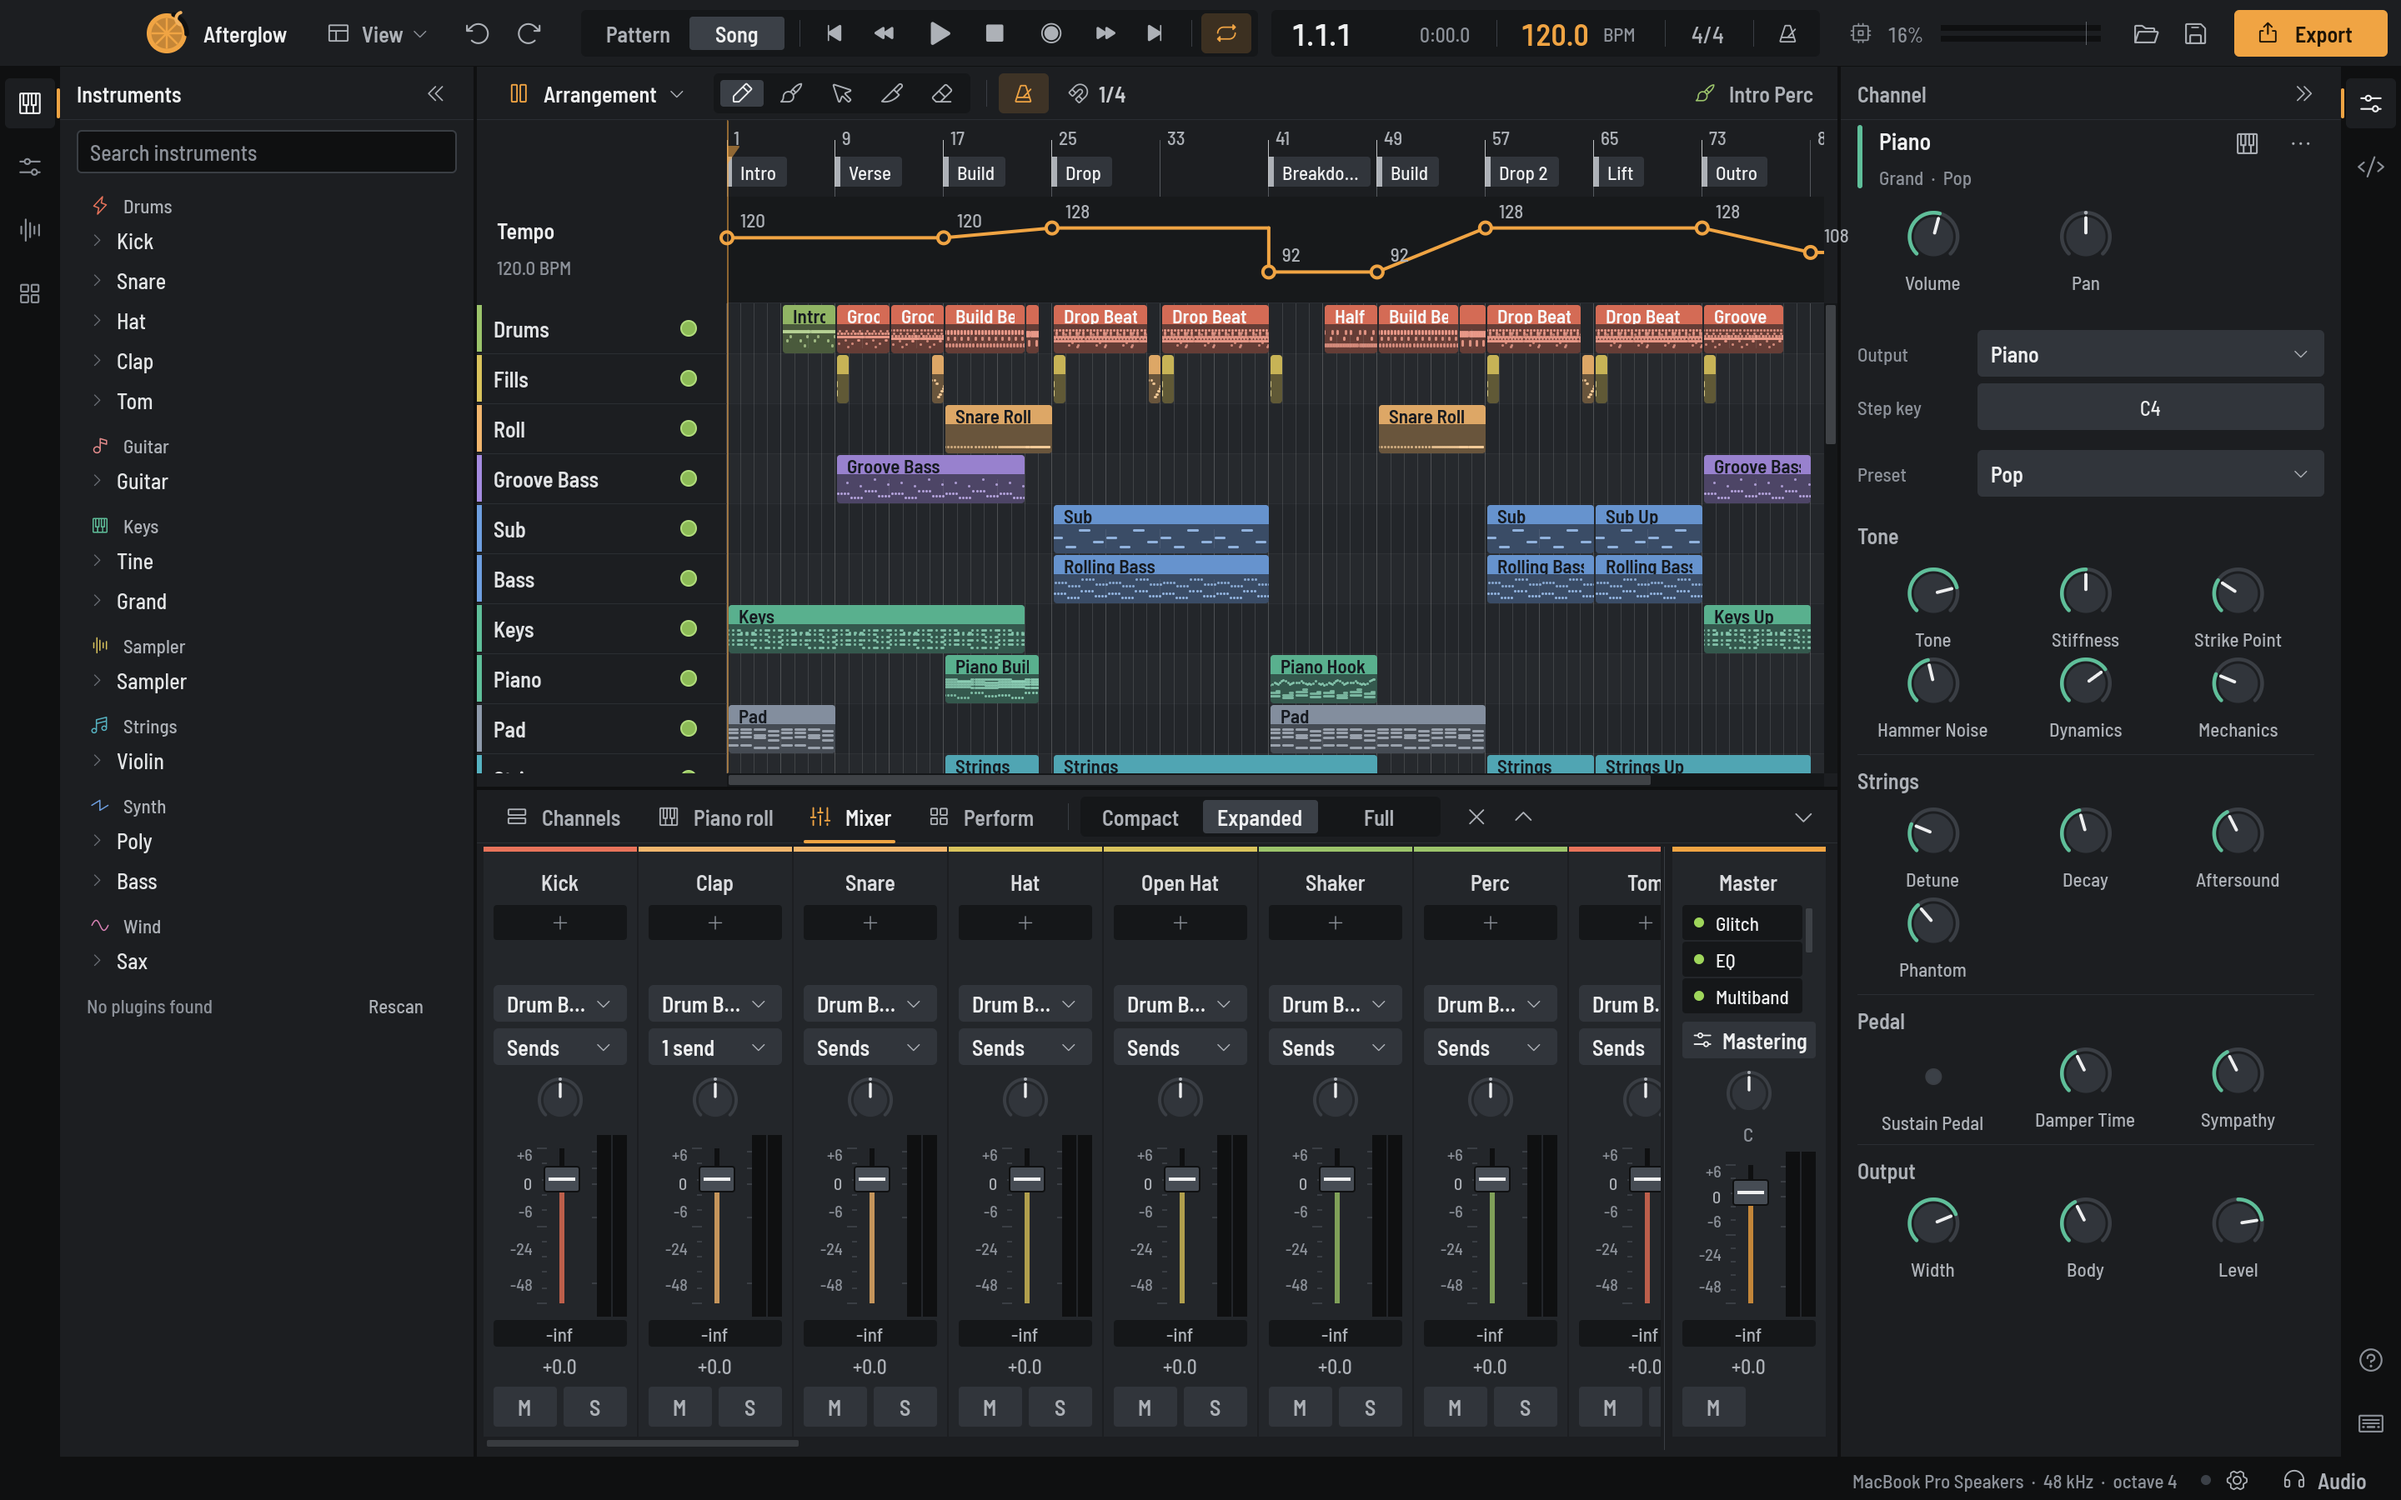
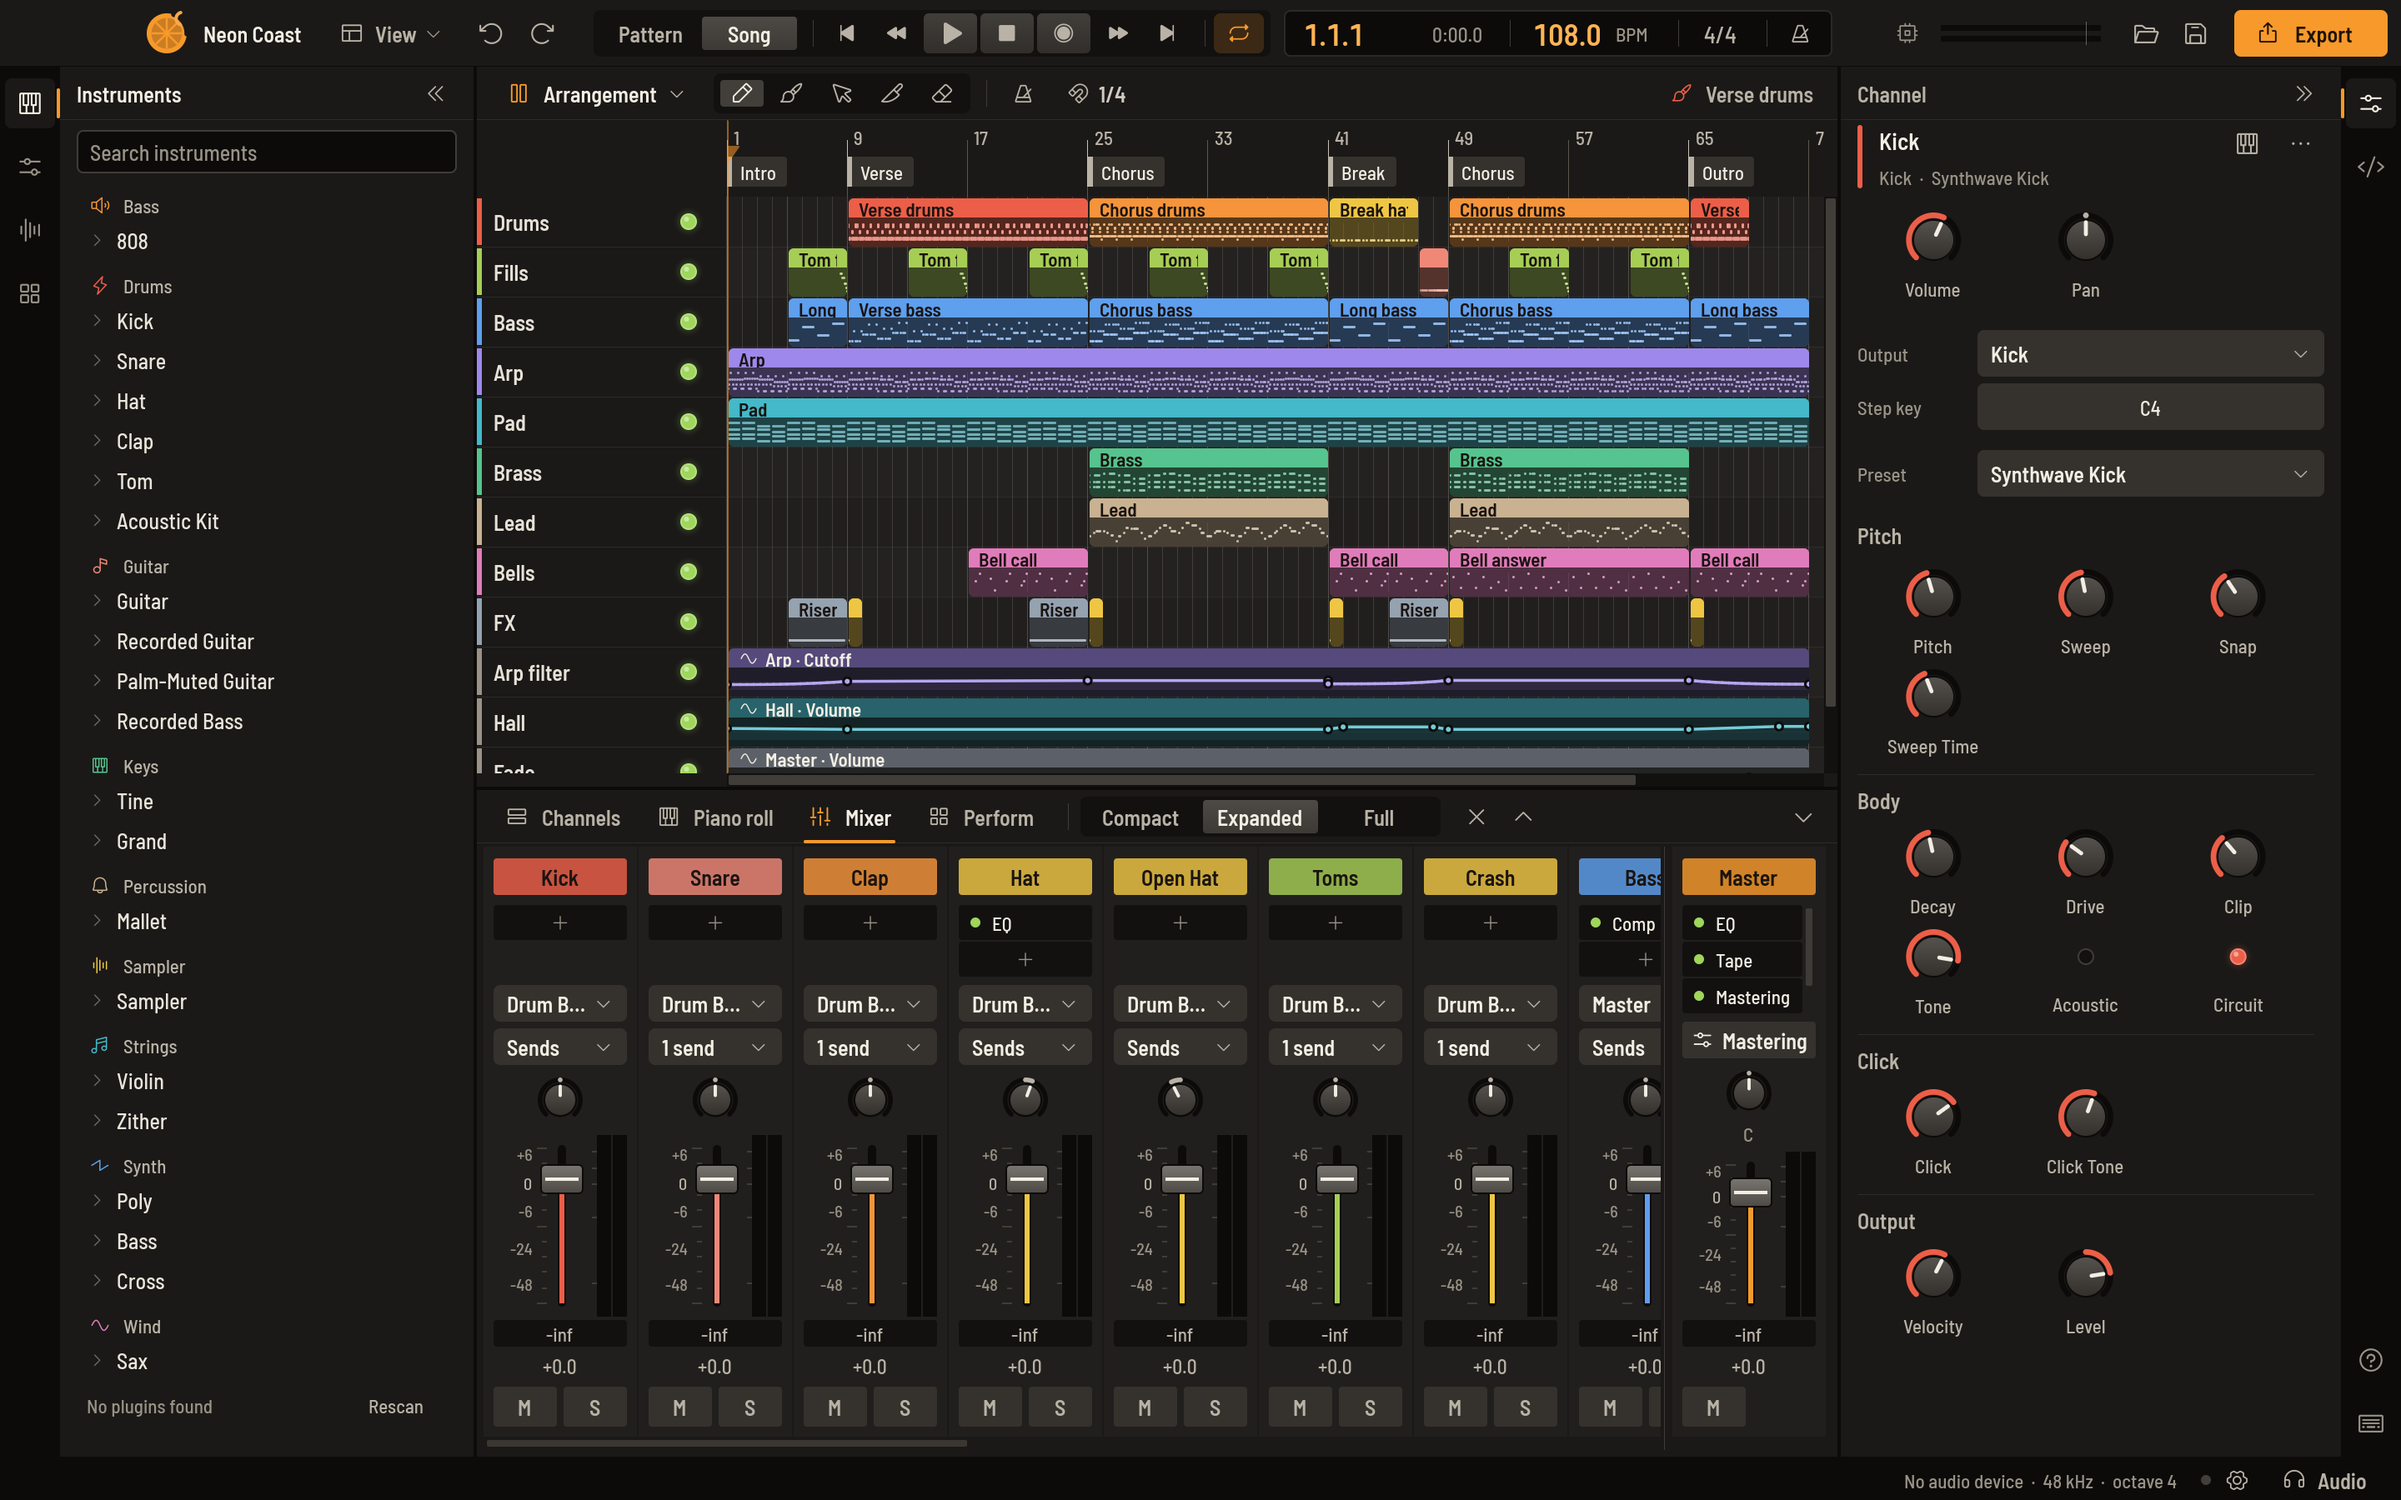
Document kits, slides and demo songs, and retake the screenshots

diff --git a/README.md b/README.md
@@ -58,7 +58,7 @@ effects. There is no web view.
   and AIFF export of the mix or stems, undo history.
 - Screen reader support through AccessKit and keyboard focus traversal.
 
-| Piano Roll with a scale | Mixer with a sidechain duck |
+| Piano Roll with 808 slides | Mixer |
 | --- | --- |
 | ![Piano Roll](docs/images/piano-roll.png) | ![Mixer](docs/images/mixer.png) |
 
@@ -74,8 +74,10 @@ song starters, alongside House and Beat and melody. Rock / Metal opens
 Channels on a one-bar Double kick pattern with the step grid at 1/16T, so
 the six-kick bursts on beats one and three line up with the steps. Trap
 uses the 808 instrument and slides it up an octave at the end of each hook
-bar; Synthwave and Hip-hop use the gated and dusty drum presets. The demo
-songs are a separate choice.
+bar; Synthwave and Hip-hop use the gated and dusty drum presets.
+
+The demo songs are a separate choice: the start screen lists them with
+their style, tempo and key, and File > Demo songs opens the same list.
 File > Close project returns to the start screen. New, Open and Close ask
 before replacing unsaved work; cancelling Save As keeps the current project.
 
@@ -111,7 +113,13 @@ requires attribution when publishing audio that uses these recordings. See
 Kick, Snare, Hat and Tom also offer modeled acoustic and 808/909 circuit
 sounds. Existing projects and older presets retain their sound.
 
-In Channels, **Steps** sets the drum grid; the bar count sets the pattern's
+In Channels, the Add menu lists kits above the instruments. Trap kit adds
+a kick, snare, clap, closed and open hats and an 808 set to slide; Acoustic
+kit adds six pieces of the recorded kit. Each piece gets its own row and
+mixer track, and the whole kit is one undo step.
+
+Step keys are colored by beat, four to a color, so the bar reads at a
+glance. **Steps** sets the drum grid; the bar count sets the pattern's
 length. Choose 1/32 or 1/64 for fast repeated kicks. The Piano Roll has
 separate **Grid** and **Note length** controls, with quarter notes, eighths,
 sixteenths, finer divisions and triplets. Note length also offers dotted
@@ -126,7 +134,8 @@ plays one note at a time. With Glide on Legato, a note that starts while
 another is still held slides to the new pitch instead of restarting, so a
 slide is two overlapping notes in the Piano Roll: lengthen the first until
 it runs under the second. Always also slides between separate notes; Off
-restarts every note. Glide Time is the same for any interval.
+restarts every note. Glide Time is the same for any interval. The Piano
+Roll draws a line from one note to the next wherever a slide will happen.
 
 Note Off chooses Release (the key gates the note; a short Release chokes
 it) or Ring (the decay always runs out, like a one-shot sample). Decay

diff --git a/docs/DESIGN.md b/docs/DESIGN.md
@@ -14,7 +14,7 @@ colors:
   well: "#121110"
   text: "#F3EEE4"
   text-dim: "#B9B2A6"
-  text-faint: "#8F887C"
+  text-faint: "#999286"
   text-on-accent: "#1F1305"
   accent: "#F7992B"
   focus: "#7FC8EA"
@@ -127,7 +127,7 @@ identifies it everywhere it appears.
 | `well` | `#121110` | Recessed trays: transport groups, insert slots, scrollbar tracks |
 | `text` | `#F3EEE4` | Primary text, knob pointers, fader index lines |
 | `text_dim` | `#B9B2A6` | Secondary text |
-| `text_faint` | `#8F887C` | Labels and hints |
+| `text_faint` | `#999286` | Labels and hints |
 | `accent` | `#F7992B` | Primary action, playhead, the peel |
 | `display` | `#FFB454` | Position and tempo figures in the time display |
 | `play` | `#9FD65B` | Play state, signal present, meters below -6 dB (orange above, red at clip) |
@@ -298,6 +298,10 @@ is a dark tint of its color; a hit lights it, dimmer the softer it is
 played. The playing step brightens. The channel's own color stays on its
 name button, its knobs and its note preview.
 
+The Add menu lists kits above the instruments, under their own heading. A
+kit adds one row and one mixer track per piece, as a single undo step, and
+is refused whole when the mixer has no room for all of it.
+
 ## Rhythm
 
 The rack's Steps picker sets the spacing of drum hits, independently of the
@@ -419,6 +423,16 @@ Notes never hang. Mouse notes end on release, when the pointer leaves the
 window with the button up, when the editor closes, when the target changes
 and when the window loses focus; the same focus loss ends held computer
 keys and centres a held Pitch or Pressure, and Panic silences every channel.
+
+## Slides
+
+A mono instrument that glides (the 808 with Glide on, the mono bass in a
+legato mode) slides when notes overlap. The Piano Roll draws each slide as
+a cream line from a dot on the held note to the note it moves to, over a
+dark underlay so it reads on any note color. It follows last-note
+priority: when the newer note ends first, a second line returns to the
+note still held. The lines are drawn from the notes, never edited
+directly; move or resize a note and they follow.
 
 ## Piano roll lanes
 
